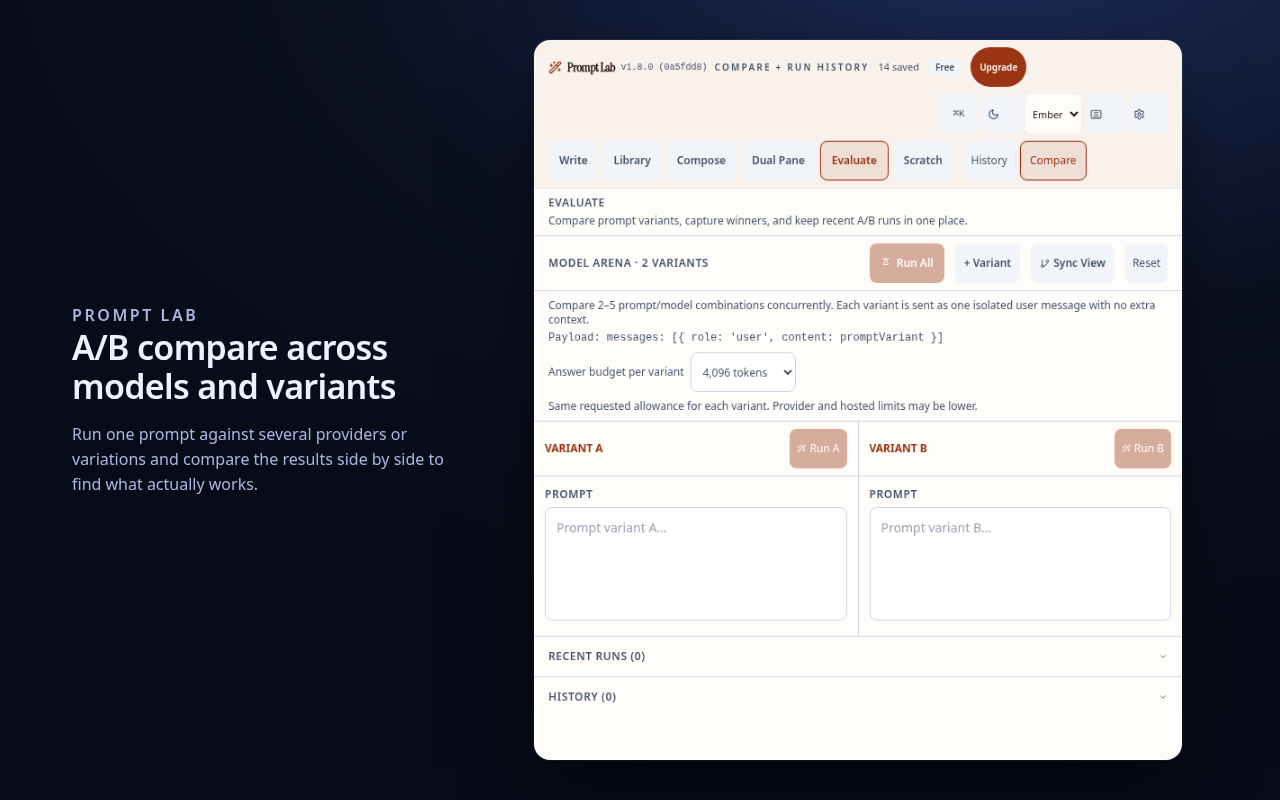
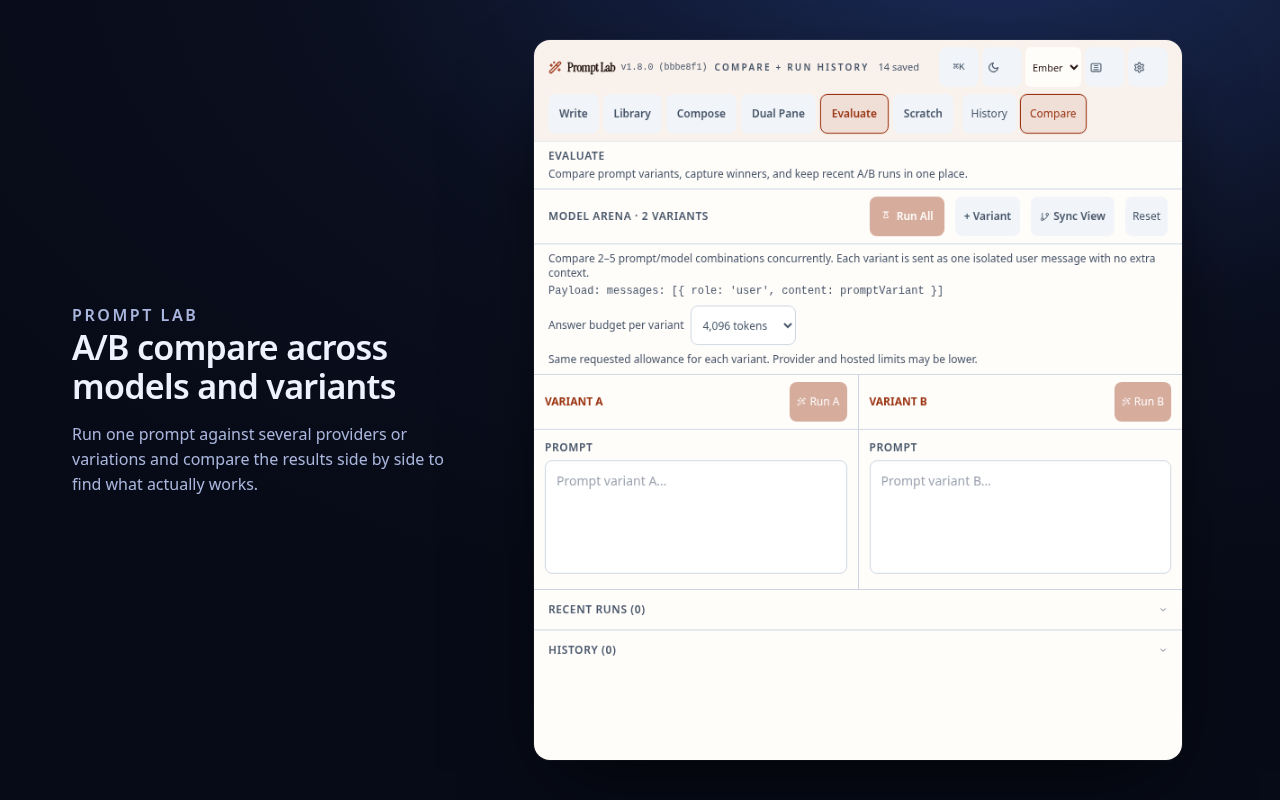
docs(cws): Free listing, regenerated screenshots without billing UI or Ollama error
- Screenshots 1-5 regenerated from the PROMPTLAB_RELEASE_TAG=v1.8.0
  build:cws at bbbe8f1 (no plan badge or Upgrade). Screenshot 5 shows the
  options page as a fresh install opens it (Anthropic, no key, no local
  provider), with no Ollama error and nothing mocked. Promo tile kept.
- Listing pricing section: Free, no purchase path in extension builds.
- Permission text: promptlab.tools is analytics only in the extension.
- Checklist and store-assets README updated.

diff --git a/store-assets/cws/README.md b/store-assets/cws/README.md
@@ -3,8 +3,9 @@
 Generated by `prompt-lab-extension/e2e/cws-store-assets.spec.js` from the
 packaged submission build, driven headlessly with no API key or network. The
 current screenshots come from the v1.8.0 release-identity build
-(`prompt-lab-v1.8.0-cws.zip`, header label `v1.8.0 (0a5fdd8)`), in the Free
-state a new install sees. Regenerate:
+(`prompt-lab-v1.8.0-cws.zip`, header label `v1.8.0 (bbbe8f1)`), in the state a
+new install sees. Extension builds have no billing UI, so no plan badge or
+Upgrade button appears. Regenerate:
 
 ```
 cd prompt-lab-source/prompt-lab-extension
@@ -29,10 +30,11 @@ The store icon is the packaged `icons/128.png` (128×128 PNG) and is read from
 the uploaded zip. Each screenshot composites the real extension side panel onto
 a branded canvas with a caption. Captions describe exactly what the panel shows.
 
-Known asset gaps: screenshot 5 shows the options page's "Ollama: Failed to
-fetch" line, because the options page probes local Ollama on load even when
-another provider is selected; regenerate it after that is fixed. The
-`1400×560` marquee is optional and not generated here.
+Screenshot 5 is the options page exactly as a fresh install opens it: the
+default provider (Anthropic) with no key and no local provider configured. The
+page probes Ollama only when Ollama is selected, so no connection error shows;
+nothing is mocked. The `1400×560` marquee is optional and not generated here.
+The promo tile was not regenerated (a re-render differs only in fonts).
 
 Still required in the Chrome Web Store console (owner-only): upload these,
 select category `Developer Tools`, paste the listing copy from

diff --git a/prompt-lab-source/prompt-lab-extension/CWS_STORE_LISTING.md b/prompt-lab-source/prompt-lab-extension/CWS_STORE_LISTING.md
@@ -68,14 +68,15 @@ reviewer text for every permission. In short:
 - `sidePanel`: Prompt Lab runs in Chrome's side panel.
 - `activeTab` + `scripting`: the Capture Page button reads the current tab's selection, title, and URL, only when the user clicks it.
 - Provider host access: requests go only to the AI provider the user selects, plus local Ollama.
-- `promptlab.tools`: opt-in usage analytics and Prompt Lab Pro license checks.
+- `promptlab.tools`: opt-in usage analytics only (the extension build has no billing UI).
 
 ## 6. Pricing and in-app purchases
 
-All extension features are available without payment today
-(`FEATURE_GATES_ENABLED = false` in `src/lib/billing.js`). The extension still
-shows an Upgrade button and a Prompt Lab Pro dialog ($9/month, $99/year via
-Stripe), but the extension has no sign-in, so checkout stops at "Sign in to
-Prompt Lab before syncing billing." Do not advertise Pro in the listing until
-the extension can complete a purchase. Decide the dashboard's Free / Contains
-in-app purchases setting together with that UI.
+The extension is listed as **Free**. Every feature is available without
+payment, and extension builds contain no purchase path: production builds
+(`npm run build` / `npm run build:cws`) set `VITE_PROMPTLAB_BILLING_UI=off`
+(`scripts/billing-ui-define.mjs`), which removes the plan badge, the Upgrade
+button, the Settings billing card and the Prompt Lab Pro dialog. The extension
+has no sign-in, so it could not complete a checkout anyway. Pro feature gates
+never apply to extension builds. Do not mention Pro or paid plans in the
+listing. Prompt Lab Pro is sold only in the hosted web app.

diff --git a/prompt-lab-source/prompt-lab-extension/PERMISSIONS_JUSTIFICATION.md b/prompt-lab-source/prompt-lab-extension/PERMISSIONS_JUSTIFICATION.md
@@ -24,7 +24,7 @@ and saving AI prompts with the AI provider the user chooses.
 
 | Host | Justification | Used in |
 |---|---|---|
-| `https://promptlab.tools/*` | Prompt Lab's own API. Sends usage analytics events only after the user chooses Allow analytics, and Prompt Lab Pro license/checkout requests if the user opens billing. Never receives prompt text, responses, or API keys. | `src/hooks/useTelemetryState.js` (`/api/telemetry`), `src/hooks/useBillingState.js` (`/api/billing/*`), base URL in `src/lib/telemetry.js` / `src/lib/billing.js` |
+| `https://promptlab.tools/*` | Prompt Lab's own API. Receives usage analytics events only after the user chooses Allow analytics. The extension build has no billing UI and sends no billing requests. Never receives prompt text, responses, or API keys. | `src/hooks/useTelemetryState.js` (`/api/telemetry`), base URL in `src/lib/telemetry.js` |
 | `https://api.anthropic.com/*` | Sends the user's prompt to the Anthropic Messages API (`/v1/messages`) with the user's own key when Anthropic is the selected provider. | `extension/lib/providers.js` |
 | `https://api.openai.com/*` | Sends the user's prompt to the OpenAI Chat Completions API (`/v1/chat/completions`) when OpenAI is selected. | `extension/lib/providers.js` |
 | `https://generativelanguage.googleapis.com/*` | Sends the user's prompt to the Google Gemini `generateContent` endpoint when Gemini is selected. | `extension/lib/providers.js` |

diff --git a/prompt-lab-source/prompt-lab-extension/CWS_SUBMISSION_CHECKLIST.md b/prompt-lab-source/prompt-lab-extension/CWS_SUBMISSION_CHECKLIST.md
@@ -30,4 +30,10 @@
 - Screenshots regenerated from that build in the Free state; screenshot 5 caption no longer says "no telemetry" (opt-in analytics exists).
 - Listing copy, category (`Developer Tools`; `Productivity` is no longer selectable) and permission text updated.
 - Privacy policy source now discloses Capture Page; the live page changes only after the landing deploy.
-- Open before submit: the extension shows an Upgrade / Prompt Lab Pro dialog it cannot complete (no sign-in in the extension); the options page shows an Ollama error to users without Ollama; the Free vs Contains in-app purchases choice; the localhost Ollama decision above.
+- Open before submit: the localhost Ollama decision above.
+
+## Status 2026-10-18, later (billing UI hidden)
+
+- Extension production builds hide all billing UI (`VITE_PROMPTLAB_BILLING_UI=off`, `scripts/billing-ui-define.mjs`); Distribution → Payments: **Free**.
+- The options page probes Ollama only when Ollama is the selected provider, so a fresh install shows no Ollama error.
+- Rebuilt with `PROMPTLAB_RELEASE_TAG=v1.8.0 npm run build:cws`; all five screenshots regenerated from that build (no plan badge or Upgrade; screenshot 5 shows the default Anthropic settings with no key and no local provider configured, nothing mocked).
